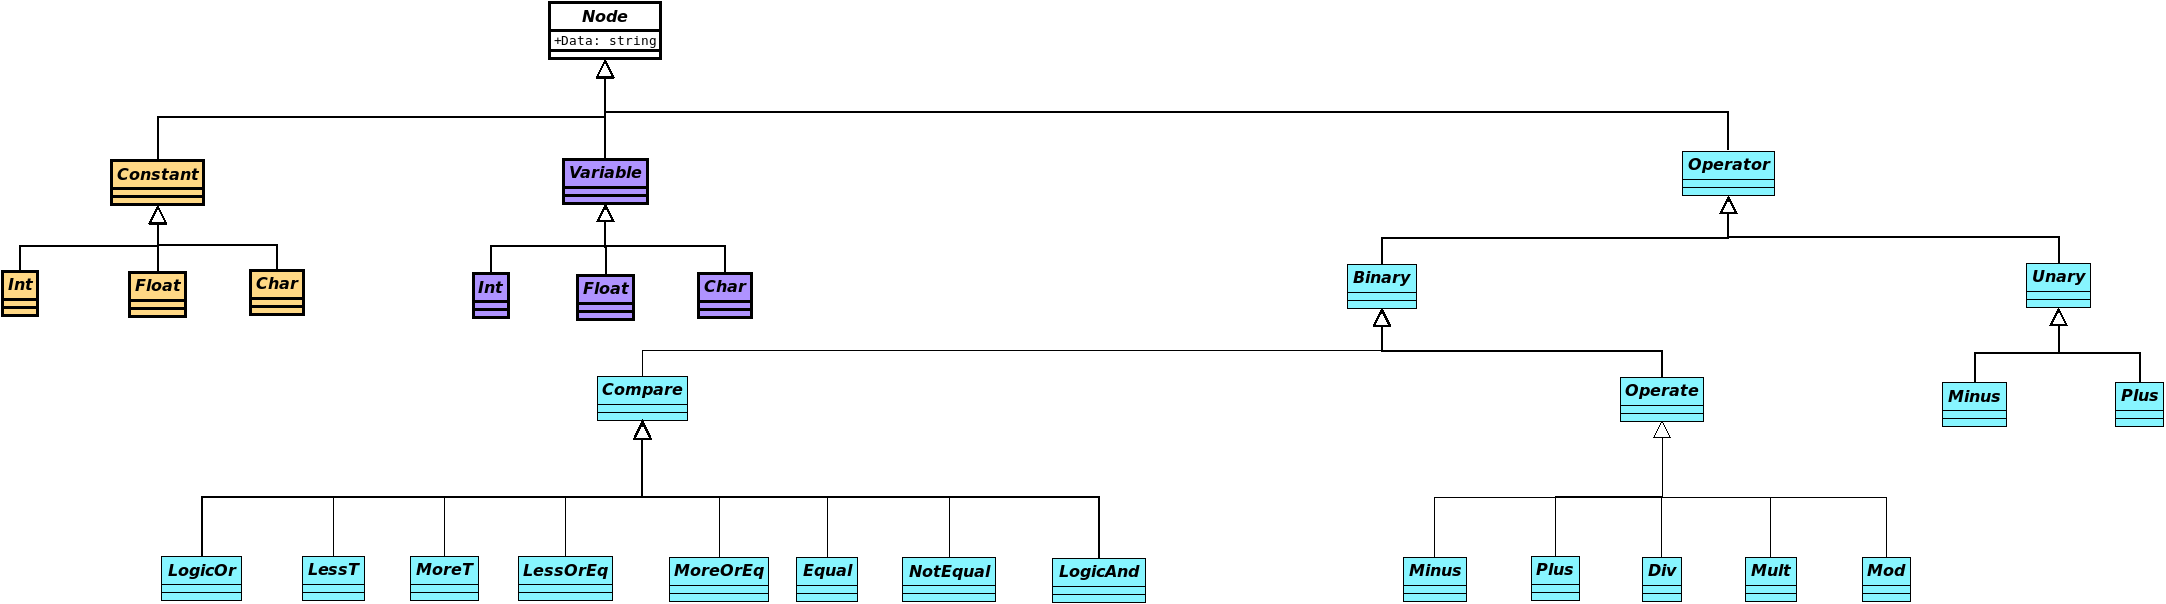
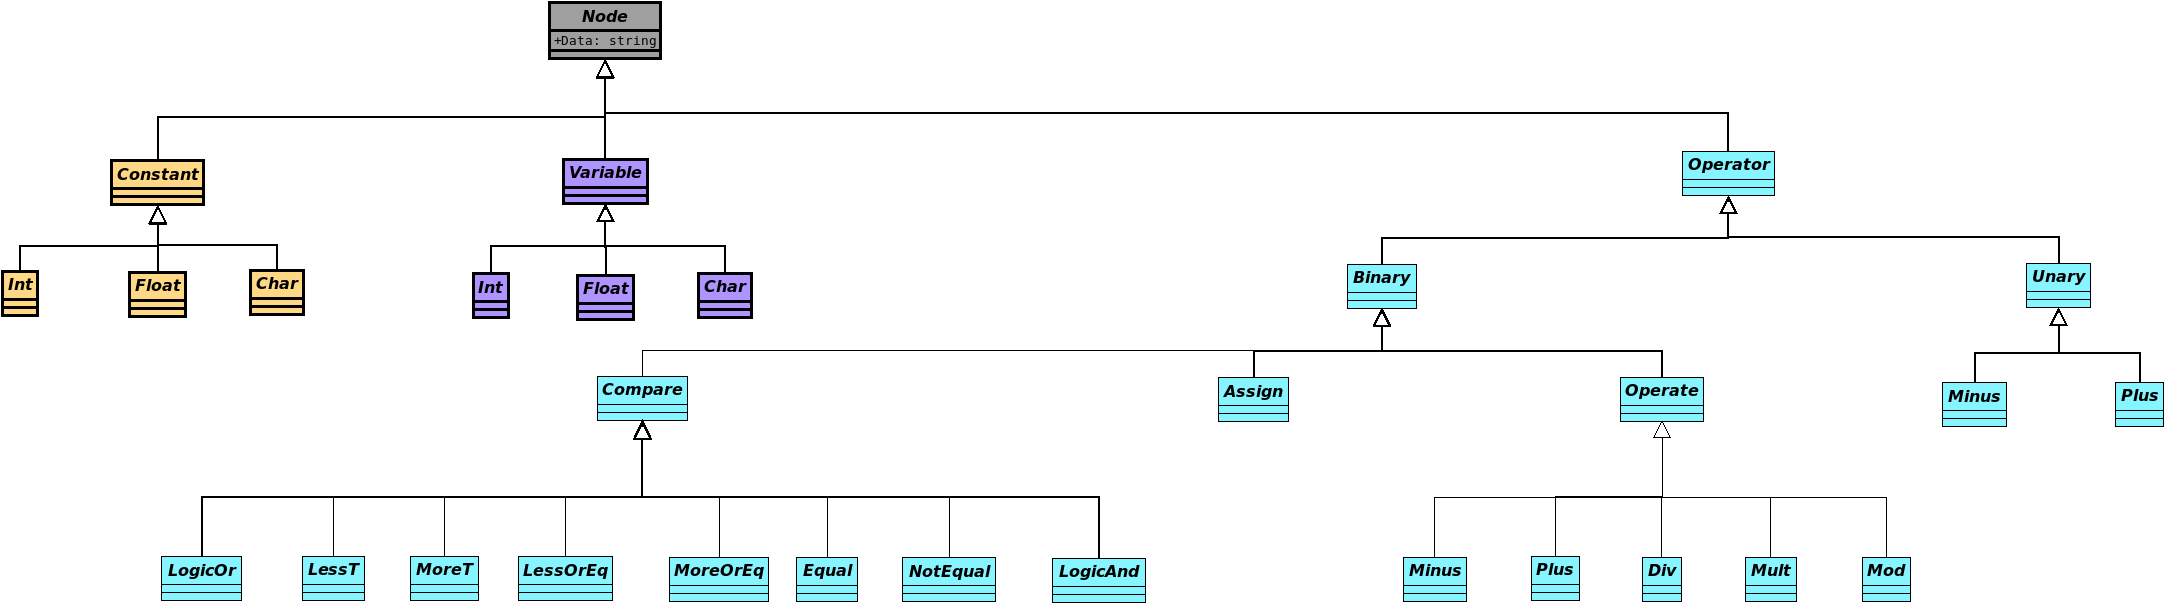
Added assign to class structure Made node class implementation better with variables Removed constant_folding temporarely because it caused folding issues

diff --git a/customListener.py b/customListener.py
@@ -34,7 +34,7 @@ class customListener(ParseTreeListener):
             return
 
         # If there are more trees link them with a root
-        newRoot = AST("Root", Node("Root"))
+        newRoot = AST("Statement Sequence", Node("Statement Sequence"))
         for tree in self.trees:
             tree.parent = newRoot
             newRoot.children.append(tree)
@@ -86,12 +86,19 @@ class customListener(ParseTreeListener):
     # Exit a parse tree produced by cParser#lvalue.
     def exitLvalue(self, ctx: cParser.LvalueContext):
         value = ""
+        node = None
         for child in ctx.getChildren():
             if child.symbol == ctx.variable:
-                value += "| " + child.getText()
-            else:
-                value += child.getText() + " "
-        self.trees.append(AST(value=value, node=Node(value)))
+                print(child.getText())
+                value = child.getText()
+            elif str(child) == "int":
+                node = VInt()
+            elif str(child) == "float":
+                node = VFloat()
+            elif str(child) == "char":
+                node = VChar()
+        node.value = value
+        self.trees.append(AST(value=value, node=node))
         pass
 
     def exitAssignment(self, ctx: cParser.AssignmentContext):
@@ -323,9 +330,15 @@ class customListener(ParseTreeListener):
     # Exit a parse tree produced by cParser#operation_brackets.
     def exitOperation_brackets(self, ctx: cParser.Operation_bracketsContext):
         print("exit )")
-        if ctx.INT_ID() or ctx.VAR_NAME() or ctx.FLOAT_ID:
+        if ctx.INT_ID():
             print(ctx.getText())
             self.trees.append(AST(value=ctx.getText(), node=CInt(ctx.getText())))
+        elif ctx.FLOAT_ID():
+            print(ctx.getText())
+            self.trees.append(AST(value=ctx.getText(), node=CFloat(ctx.getText())))
+        elif ctx.VAR_NAME():
+            print(ctx.getText())
+            self.trees.append(AST(value=ctx.getText(), node=Variable(ctx.getText())))
         else:
             if len(self.trees) > 1:
                 self.trees[len(self.trees) -

diff --git a/Node.py b/Node.py
@@ -8,7 +8,7 @@ class Node:
         self.value = value
 
     def __str__(self):
-        return '[label="{}"] \n'.format(self.value)
+        return '[label="{}", fillcolor="#9f9f9f"] \n'.format(self.value)
 
 
 class Constant(Node):
@@ -204,3 +204,46 @@ class Mod(Operate):
 
     def __str__(self):
         return '[label="Binary Operator: {}", fillcolor="#87f5ff"] \n'.format(self.value)
+
+
+class Assign(Binary):
+    def __init__(self, value=""):
+        Binary.__init__(self, value)
+
+    def __str__(self):
+        return '[label="Assign", fillcolor="#87f5ff"] \n'.format(self.value)
+
+
+class Variable(Node):
+    def __init__(self, value=""):
+        Node.__init__(self, value)
+
+    def __str__(self):
+        return '[label="Variable: {}", fillcolor="#af93ff"] \n'.format(self.value)
+
+
+class VInt(Variable):
+    def __init__(self, value=""):
+        Node.__init__(self, value)
+        self.type = "int"
+
+    def __str__(self):
+        return '[label="Variable Type: {}: {}", fillcolor="#af93ff"] \n'.format(self.type, self.value)
+
+
+class VFloat(Variable):
+    def __init__(self, value=""):
+        Node.__init__(self, value)
+        self.type = "float"
+
+    def __str__(self):
+        return '[label="Variable Type: {}: {}", fillcolor="#af93ff"] \n'.format(self.type, self.value)
+
+
+class VChar(Variable):
+    def __init__(self, value=""):
+        Node.__init__(self, value)
+        self.type = "char"
+
+    def __str__(self):
+        return '[label="Variable Type: {}: {}", fillcolor="#af93ff"] \n'.format(self.type, self.value)

diff --git a/main.py b/main.py
@@ -21,8 +21,8 @@ def main(argv):
 
     communismForLife.print_dot("c_tree.dot")
 
-    communismForLife.constant_folding()
-    communismForLife.print_dot("c_tree_folded.dot")
+    #communismForLife.constant_folding()
+    #communismForLife.print_dot("c_tree_folded.dot")
 
     print("Done")
 

diff --git a/README.md b/README.md
@@ -30,7 +30,14 @@ Arno Deceuninck & Basil Rommens
 - [ ] Retaining comments in compilation process
 - [ ] Comment after every instruction that contains the statement from the input code
 
-## Node klasse-structuur
+## Node klasse
+### Structuur
 ![alt text](doc/NodeClass.png)
+
+### Histogram
+- ![#ffd885](https://placehold.it/15/ffd885/000000?text=+) Constanten
+- ![#87f5ff](https://placehold.it/15/87f5ff/000000?text=+) Operatoren
+- ![#af93ff](https://placehold.it/15/af93ff/000000?text=+) Variabelen
+- ![#9f9f9f](https://placehold.it/15/9f9f9f/000000?text=+) Default Nodes
 
 ## Testen
